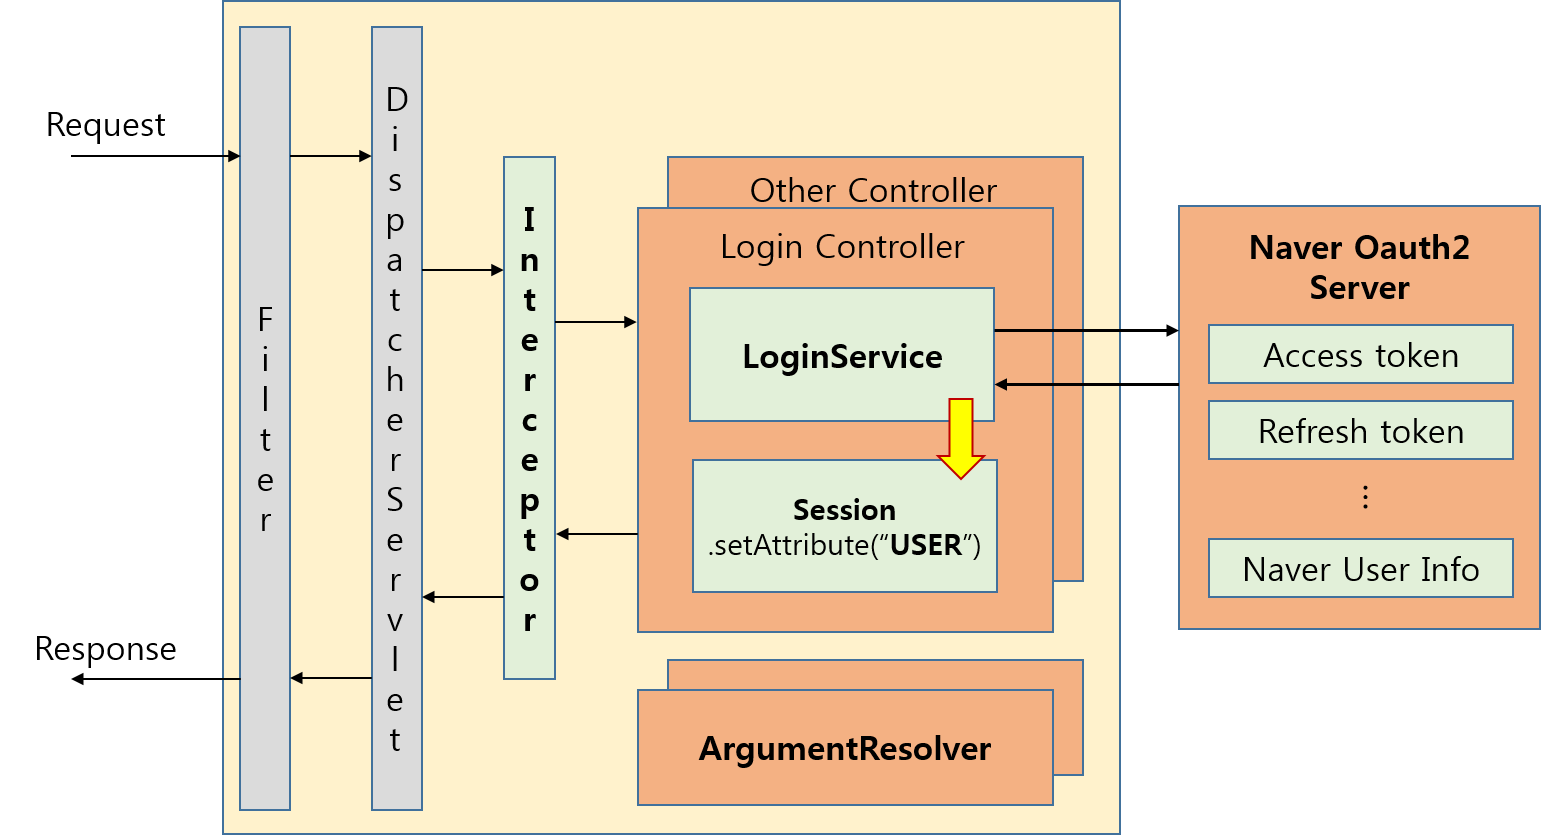
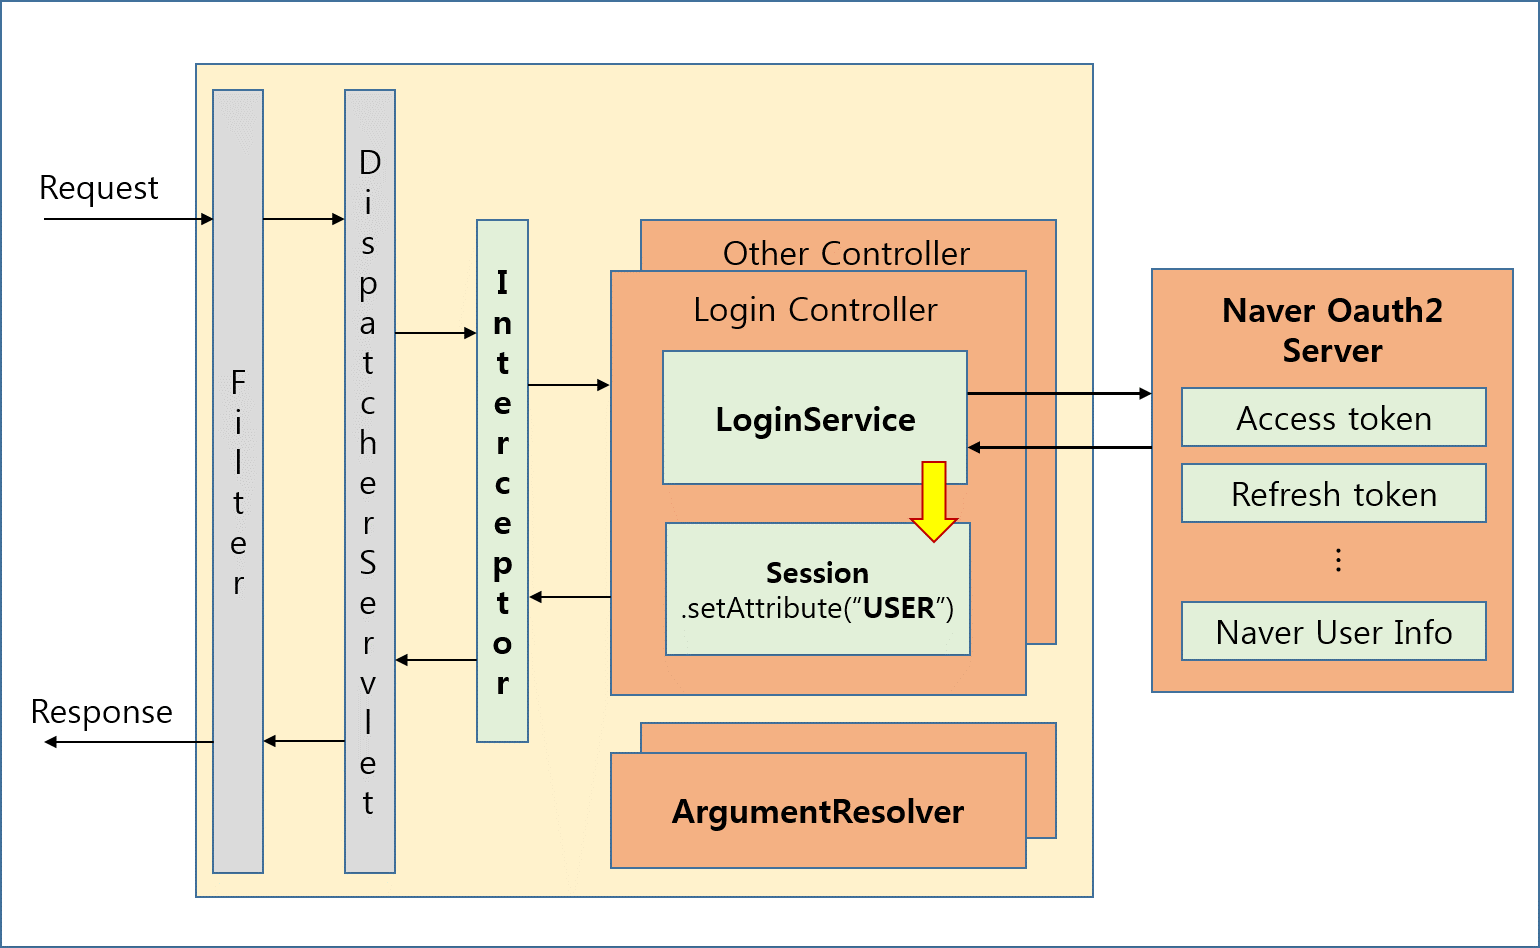
T

diff --git a/PITCHME.md b/PITCHME.md
@@ -14,7 +14,7 @@
 ### 우리 시스템의 **<span style="color:#00ff99">"이슈"</span>**
 1. 시스템에 **Authentication** 만 존재
 2. Login 과정의 로직 분리가 확실하게 되어있지 않다
----?image=pitch_images/before_security.png&size=auto 30%
+?image=pitch_images/before_security.png&size=auto 40%
 
 ---
 ### 해결방안
